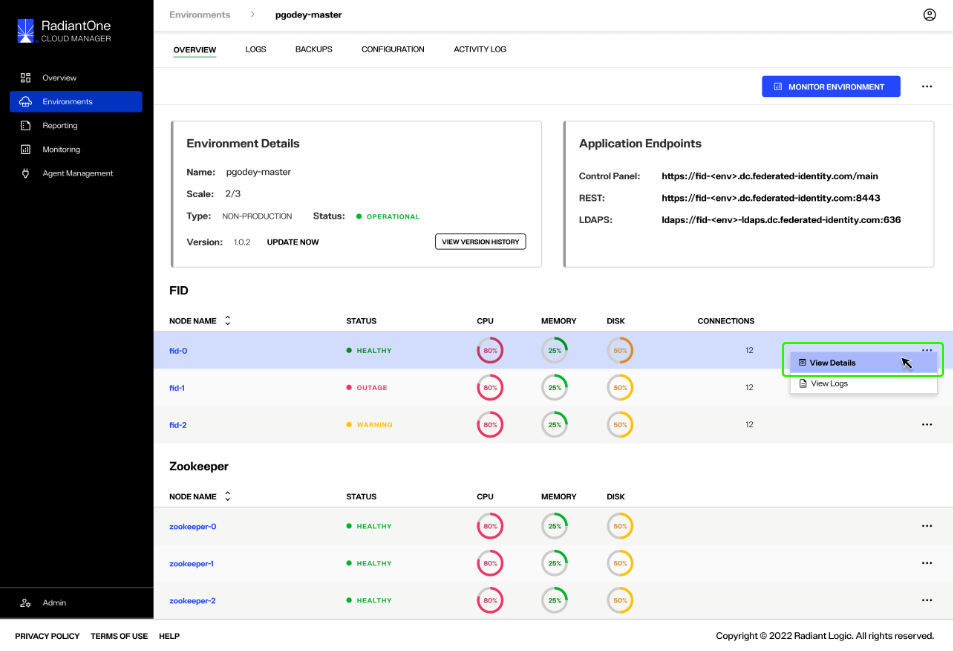
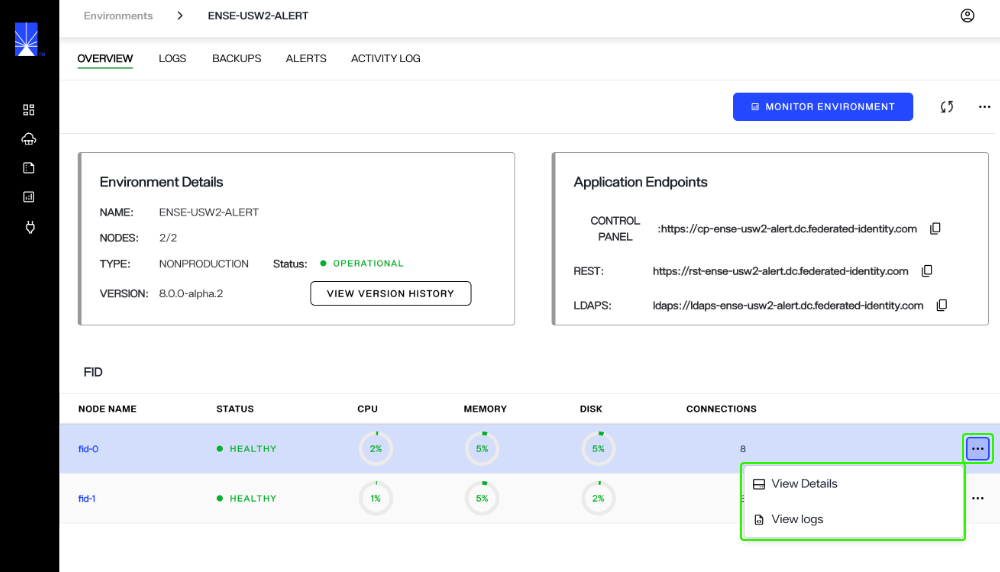
update env details docs
Updated screenshots and some minor content changes

diff --git a/documentation/environment-operations-center-guide/environments/environment-details/environment-overview.md b/documentation/environment-operations-center-guide/environments/environment-details/environment-overview.md
@@ -12,11 +12,11 @@ Each environment has a detailed view where you can see further information about
 
 To navigate to the detailed view of an environment, select the environment name from the list of environments displayed on the *Environments* screen.
 
-![image description](images/overview-select-env.png)
+![image description](images/view-details.png)
 
 This brings you to the environment's *Overview* screen that displays a summary of the environment details and operation statuses. Further monitoring and updating tools for the environment are accessible from the navigation bar located at the top of the page.
 
-![image description](images/overview-screen.png)
+![image description](images/details-overview.png)
 
 ## Top navigation
 
@@ -28,7 +28,7 @@ A navigation bar is located at the top of the *Overview* screen and is visible f
 - Configuration
 - Activity Log
 
-![image description](images/overview-topnav.png)
+![image description](images/top-nav.png)
 
 ### Logs
 
@@ -36,7 +36,7 @@ The *Log* tab allows you to view an environment's log details, imported from Ela
 
 For further details on reviewing environment logs, see the [Environment Logs](../logging/environment-logs.md) guide.
 
-![image description](images/overview-log-tab.png)
+![image description](images/logs.png)
 
 ### Backups
 
@@ -44,21 +44,21 @@ From the *Backups* tab, you can save a backup of the current environment configu
 
 For information on managing your environment backups, refer to the [backup and restore documentation](../backup-and-restore/backup-restore-overview.md).
 
-![image description](images/overview-backups-tab.png)
+![image description](images/backups.png)
 
-### Configuration
+### Alerts
 
-From the *Configuration* tab, you can view a chronological list of the configuration file import and export history for an environment. Configuration file import or export workflows can also be launched from this screen.
+The *Alerts* tab provides an overview of all alerts that have been triggered for the environment including the alert message, the channel the alert was sent to, date, and status. 
 
-To learn how to import a configuration file, review the [import a configuration file](../environment-overview/import-configuration-file.md) guide. Or, for details on exporting a configuration file, review the [export a configuration file](export-configuration-file.md) guide.
+For details on creating environment alerts, see the [alert management](../../admin/alert-management/alert-management-overview.md) guide.
 
-![image description](images/overview-configuration-tab.png)
+![image description](images/alerts.png)
 
 ### Activity log
 
 Under the *Activity Log*, you can view a list of all actions performed on an environment. Each action has a corresponding time and date stamp of when it was performed and the user who performed the action is also listed.
 
-![image description](images/overvieew-activitylog-tab.png)
+![image description](images/activity-log.png)
 
 ## Monitor environment
 
@@ -66,21 +66,27 @@ A **Monitor Environment** button is located near the top of the *Overview* scree
 
 For further details on monitoring environments, see the [monitoring](../../monitoring/monitoring-overview.md) guide.
 
-![image description](images/overview-monitoring.png)
+![image description](images/monitor-env.png)
+
+## Refresh Environment Details
+
+A refresh button is located next to **Monitor Environment**. Select **Refresh** to display the most up to date details for the environment.
+
+![image description](images/refresh-env.png)
 
 ## Environment options
 
-An expandable **Options** (**...**) menu is located next to the **Monitor Environment** button. Selecting the **Options** (**...**) dropdown menu displays the options to **Update** or **Delete** the environment.
+An expandable **Options** (**...**) menu is located next to the **Monitor Environment** button. Selecting the **Options** (**...**) dropdown menu displays the options to **Update**, **Scale**, or **Delete** the environment.
 
-To learn how to delete the environment, review the [delete environment](delete-environment.md) guide. For details on updating the environment, review the [update environment](update-environment.md) guide.
+To learn how to update or delete the environment, review the respective [delete environment](delete-environment.md) or [updated environment](update-environment.md) guides. For details on monitoring and adjusting nodes, see the [update and monitor nodes](node-details.md) guide.
 
-![image description](images/overview-options.png)
+![image description](images/env-options.png)
 
 ## Environment details
 
 The *Environment Details* section outlines the environment name, scale, type, status and version number.
 
-![image description](images/overview-env-details.png)
+![image description](images/env-details.png)
 
 ### Status
 
@@ -90,7 +96,7 @@ The environment status will change depending on the state of the environment. St
 - Warning: There are services down. This can range from 10%-90% of services.
 - Outage: There are too many services down for the environment to operate. Less than 10% of services are running.
 
-![image description](images/overview-envdetails-status.png)
+![image description](images/env-status.png)
 
 ### Version
 
@@ -98,27 +104,27 @@ If the environment version is out of date, an "Update Now" message appears next 
 
 For details on updating the environment, review the [update environment](update-environment.md) guide.
 
-![image description](images/overview-updatenow.png)
+![image description](images/update-env.png)
 
 You can view the environment's version history by selecting the **View Version History** button in the lower right corner of the *Environment Details* box. 
 
 See the guide on [version history](version-history.md) for further details on reviewing and restoring an environment's previous versions.
 
-![image description](images/overview-version-history.png)
+![image description](images/view-version-hist.png)
 
 ## Endpoints
 
 The *Application Endpoints* section lists all of the environment endpoints.
 
-![image description](images/overview-endpoints.png)
+![image description](images/endpoints.png)
 
 ## Node monitoring
 
-The lower section of the *Overview* page displays monitoring sections for the FID and Zookeeper nodes of an environment. For both FID and Zookeeper nodes, the status, CPU, memory, and disk space are provided for each node. The number of connections are listed for all FID nodes.
+The lower section of the *Overview* page displays monitoring sections for the FID nodes of an environment. The status, CPU, memory, disk space, and number of connections are provided for each node.
 
 Node status will be listed as "Healthy", "Warning, or "Outage", indicating that the node is either operational, experiencing a partial outage, or experiencing a complete outage.
 
-![image description](images/overview-node-monitoring.png)
+![image description](images/node-details.png)
 
 CPU, memory, and disk are all displayed as color-coded percentages to indicate their health.
 
@@ -132,27 +138,7 @@ An expandable **Options** (**...**) menu is available for each node. Selecting t
 
 For further details on reviewing nodes details, see the [node details](node-details.md) guide.
 
-![image description](images/overview-node-options.png)
-
-## Alerts
-
-Environment alerts display at the top of the Overview screen when warnings or outages occur. Alerts include general operational alerts from Env Ops Center, as well as any custom alerts you have configured for your environments. A maximum of three alerts display at a time in order of priority. If there are more than three alerts, each subsequent alert will display once a previous alert has been closed or resolved.
-
-![image description](images/alerts.png)
-
-You can hide an alert by selecting the "X" located in the alert message. If the issue has not been resolved, the alert notification will persist when you navigate back to the *Overview* screen.
-
-![image description](images/alerts-close.png)
-
-To view further details about the alert, select **View Alert Logs**. 
-
-![image description](images/alerts-view-logs.png)
-
-This brings you to the *Alerts* tab where you can review the alert details.
-
-To learn more about managing environment alerts, see the [alert management guide](../../admin/alert-management/alert-management-overview.md).
-
-![image description](images/alerts-tab.png)
+![image description](images/node-options.png)
 
 ## Next steps
 

diff --git a/documentation/environment-operations-center-guide/environments/environment-details/update-environment.md b/documentation/environment-operations-center-guide/environments/environment-details/update-environment.md
@@ -13,7 +13,7 @@ When version updates are applied to your Environment Operations Center instance,
 
 When an environment requires updating, an **Update Now** message appears next to the environment version number under "Environment Details".
 
-![image description](images/overview-updatenow.png)
+![image description](images/update-now.png)
 
 ### Begin update
 
@@ -21,29 +21,25 @@ There are two ways to begin the environment update workflow from the *Overview* 
 
 To update using the **Options** menu, select the ellipsis (**...**) located next to the **Monitor Environment** button to display the environment's **Options** menu. From the dropdown menu, select **Update** to open the *Update Environment* dialog box.
 
-![image description](images/overview-options.png)
+![image description](images/options-update.png)
 
 Alternatively, you can select the **Update Now** message located next to the environment's version number. This will also open the *Update Environment* dialog box.
 
-![image description](images/update-select-updatenow.png)
+![image description](images/select-update-now.png)
 
-### Update version number and nodes
+### Update version number
 
-Once you have started the environment update workflow, a dialog box appears containing the fields required to update the environment version and number of FID nodes. To update your environment, you must provide the correct version number that corresponds with your current version number of Environment Operations Center and the number of FID nodes to display.
+The *Update Environment* dialog box contains a **Version** dropdown field to update the environment version. To update your version number, select the correct number from the **Version** drop down menu. Your currently installed version number is displayed just above the dropdown menu for reference.
 
-To update your version number, select the correct number from the **Version** drop down menu. Your currently installed version number is displayed just above the dropdown menu for reference.
+![note] Environment versions can only be updated incrementally. You must select the version number that immediately succeeds your current environment version.
 
-![image description](../environment-overview/images/update-select-version.png)
+![image description](images/select-version.png)
 
-To set the number of FID nodes for the environment, use the provided slider to increase or decrease the quantity as needed. Alternatively, you can select either the minus (**-**) or plus (**+**) sign on either side of the slider to increase or decrease the number of FID nodes.
-
-![image description](../environment-overview/images/update-node-slider.png)
-
-Once you have set the correct version number and number of FID nodes, select **Update** to begin updating the environment.
-
-![image description](../environment-overview/images/update-env-button.png)
+Once you have selected the correct version number, select **Update** to begin updating the environment.
 
 To quit the update and return to the environment *Overview* screen, select **Cancel**.
+
+![image description](images/select-update.png)
 
 ### Environment update confirmation
 
@@ -51,30 +47,24 @@ After selecting **Update** you will return to the *Overview* screen. An updating
 
 While the environment is updating its status will display as "Updating", the **Update Now** message will no longer be visible, and the **Options** (**...**) menu will be greyed out and unable to be selected.
 
-![image description](images/update-updating.png)
+![image description](images/updating.png)
 
 If the environment updates successfully, you will receive a success notification and the environment status will change to "Operational".
 
-Select **Dismiss** to close the notification.
+![image description](images/updated.png)
 
-![image description](images/update-success.png)
+If the environment update is unsuccessful, you will receive an error notification and the environment status will change to "Update Failed". Select **Dismiss** to close the notification and proceed to retry updating the environment.
 
-If the environment update is unsuccessful, you will receive an error notification and the environment status will change to "Update Failed".
+## View version history
 
-Select **Dismiss** to close the notification and proceed to retry updating the environment.
+To view updates previously applied to an environment, select **View Version History** located in the *Environment Details* section.
 
-![image description](images/update-failed.png)
+![image description](images/view-version-history.png)
 
-## Previous updates
+The *Version History* dialog lists all updates applied to the environment by their version number in chronological order. Each update also has a time and date stamp for when the update was applied and lists the user who performed the update.
 
-You can view updates previously applied to an environment by selecting **Activity Log** from the top navigation or by selecting **View Version History** located in the *Environment Details* section.
-
-From either, you can also begin the workflow to revert to a previous environment update.
-
-[!note] For further details on reviewing version history and reverting to a previous environment version, review the [version history](version-history.md) guide.
-
-![image description](images/update-view-versionhistory.png)
+![image description](images/version-history-details.png)
 
 ## Next steps
 
-After reading this guide you should have an understanding of the steps required to update an environment, including updating the version number and number of FID nodes to display, from the *Overview* screen of the environment. To learn how to review all updates applied to an individual environment, see the guide on monitoring environment [version history](version-history.md).
+After reading this guide you should have an understanding of the steps required to update an environment. To learn how to adjust the number of environment nodes, see the [update and monitor environment nodes](node-details.md) guide. For details on backing up and restoring environment versions, see the [backups overview](../backup-and-restore/backup-restore-overview.md).

diff --git a/documentation/environment-operations-center-guide/environments/environment-details/node-details.md b/documentation/environment-operations-center-guide/environments/environment-details/node-details.md
@@ -1,11 +1,25 @@
 ---
 keywords:
-title: Monitor Node Health of an Environment
-description: Guide to review and monitor node status
+title: Update and Monitor Environment Nodes
+description: Update and monitor nodes
 ---
-# Monitor Node Health of an Environment
+# Update and Monitor Environment Nodes
 
-This guide outlines the steps required to monitor the status details for a specific node. The *Overview* tab provides a high-level view of all FID and Zookeeper node statuses for quick monitoring of cluster health. Each individual node has a detailed view that provides further information on the status and health of a given node. The details provided for FID nodes versus Zookeeper nodes are slightly different and are outlined within this guide.
+This guide outlines the required steps adjust the number of nodes in an environment and to monitor the status details of a specific node. The *Overview* tab provides a high-level view of all FID node statuses for quick monitoring of cluster health. Each individual node has a detailed view that provides further information on the status and health of a given node.
+
+## Adjust number of nodes
+
+To set the number of FID nodes contained in an environment, select the **Options** (**...**) menu and select **Scale**.
+
+![image description](images/select-scale.png)
+
+In the *Adjust Environment Scale* dialog, use the provided slider to increase or decrease the quantity. Alternatively, you can select either the minus (**-**) or plus (**+**) sign on either side of the slider to increase or decrease the number of FID nodes to display.
+
+![image description](images/adjust-scale.png)
+
+The number of nodes in the environment will increase or decrease accordingly.
+
+![image description](images/reduced-nodes.png)
 
 ## View node details
 
@@ -13,11 +27,11 @@ There are two ways to access the status details for a specific node: select the 
 
 You can select the node name to open the node details dialog.
 
-![image details](images/node-name.png)
+![image details](images/select-node-name.png)
 
 Alternatively, you can select the **Options** (**...**) menu located in the node row to expand the dropdown menu. From the **Options** menu select **View Details** to open the the node details dialog.
 
-![image details](images/node-options.png)
+![image details](images/options-view-details.png)
 
 ### FID node details
 
@@ -34,7 +48,7 @@ The FID node details dialog provides the following information for the selected 
 | Up Time | How long the application has been running. |
 | Services | Lists the internal ports and their statuses. |
 
-![image description](images/node-fid-details.png)
+![image description](images/node-details.png)
 
 ## View node logs
 
@@ -44,13 +58,13 @@ To access log files from a node's details dialog, select **View Logs** in the di
 
 Select **Close** to exit the node details dialog.
 
-![image description](images/node-fid-logs.png)
+![image description](images/details-view-logs.png)
 
 Alternatively, the log files of a node can be accessed by selecting **View Logs** from the associated **Options** (**menu**).
 
 [!note] For further details on reviewing logs, see the [environment logs](../logging/environment-logs.md) guide.
 
-![image description](images/node-view-logs.png)
+![image description](images/options-view-logs.png)
 
 ## Next steps
 

diff --git a/documentation/environment-operations-center-guide/environments/environment-details/delete-environment.md b/documentation/environment-operations-center-guide/environments/environment-details/delete-environment.md
@@ -21,23 +21,17 @@ To begin the workflow to delete the environment, select the ellipsis next to **M
 
 To delete the selected environment, enter the name of the environment in the space provided in the dialog box and select the **Delete** button. The environment name entered must match the actual environment name exactly, otherwise you will receive an error message and will not be able to submit the delete request.
 
-![image description](../environment-overview/images/delete-enter-name.png)
+![image description](images/delete-enter-name.png)
 
 If you would like to keep the environment and exit out of the confirmation dialog, select **Keep the Environment** to return to the *Overview*  screen.
 
-![image description](../environment-overview/images/delete-keep-env.png)
+![image description](images/delete-keep-env.png)
 
 ## Confirmation
 
 After selecting **Delete** in the confirmation dialog you will return to the *Environments* home screen. Here, you'll receive a confirmation message that the environment was successfully deleted and the environment will be removed from the environments list.
 
-![image description](../environment-overview/images/delete-success.png)
-
-If the environment could not be deleted, you will return to the environment *Overview* screen and receive an error notification indicating that the attempt to delete the environment failed.
-
-Select **Dismiss** to close the error notification.
-
-![image description](images/delete-failed.png)
+If the environment could not be deleted, you will return to the environment *Overview* screen and receive an error notification indicating that the attempt to delete the environment failed. Select **Dismiss** to close the error notification.
 
 ## Next steps
 
